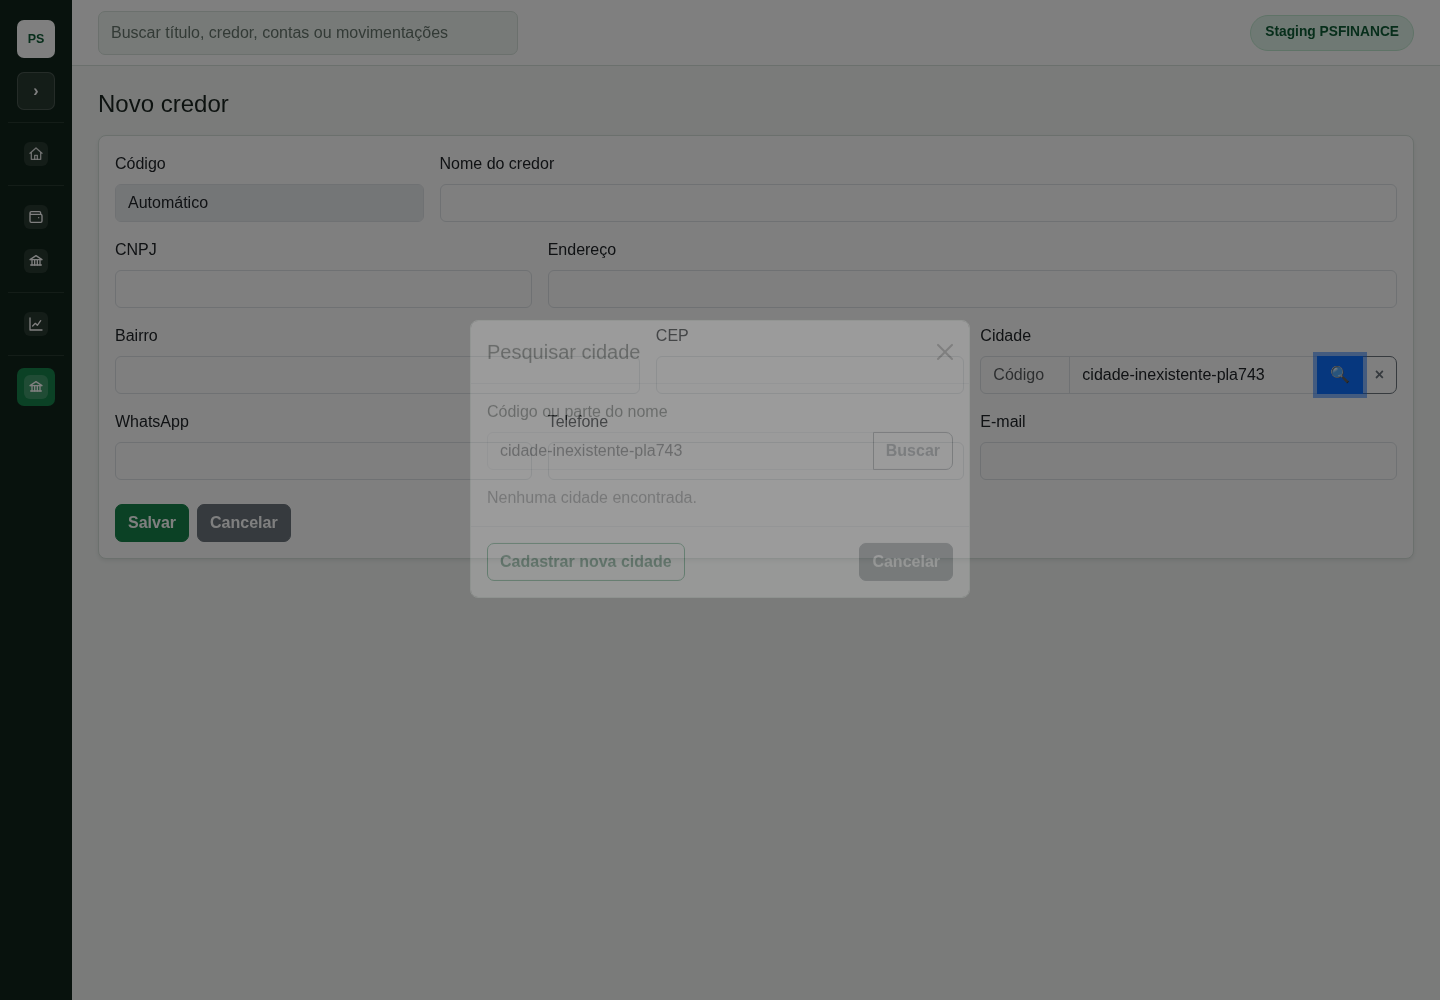
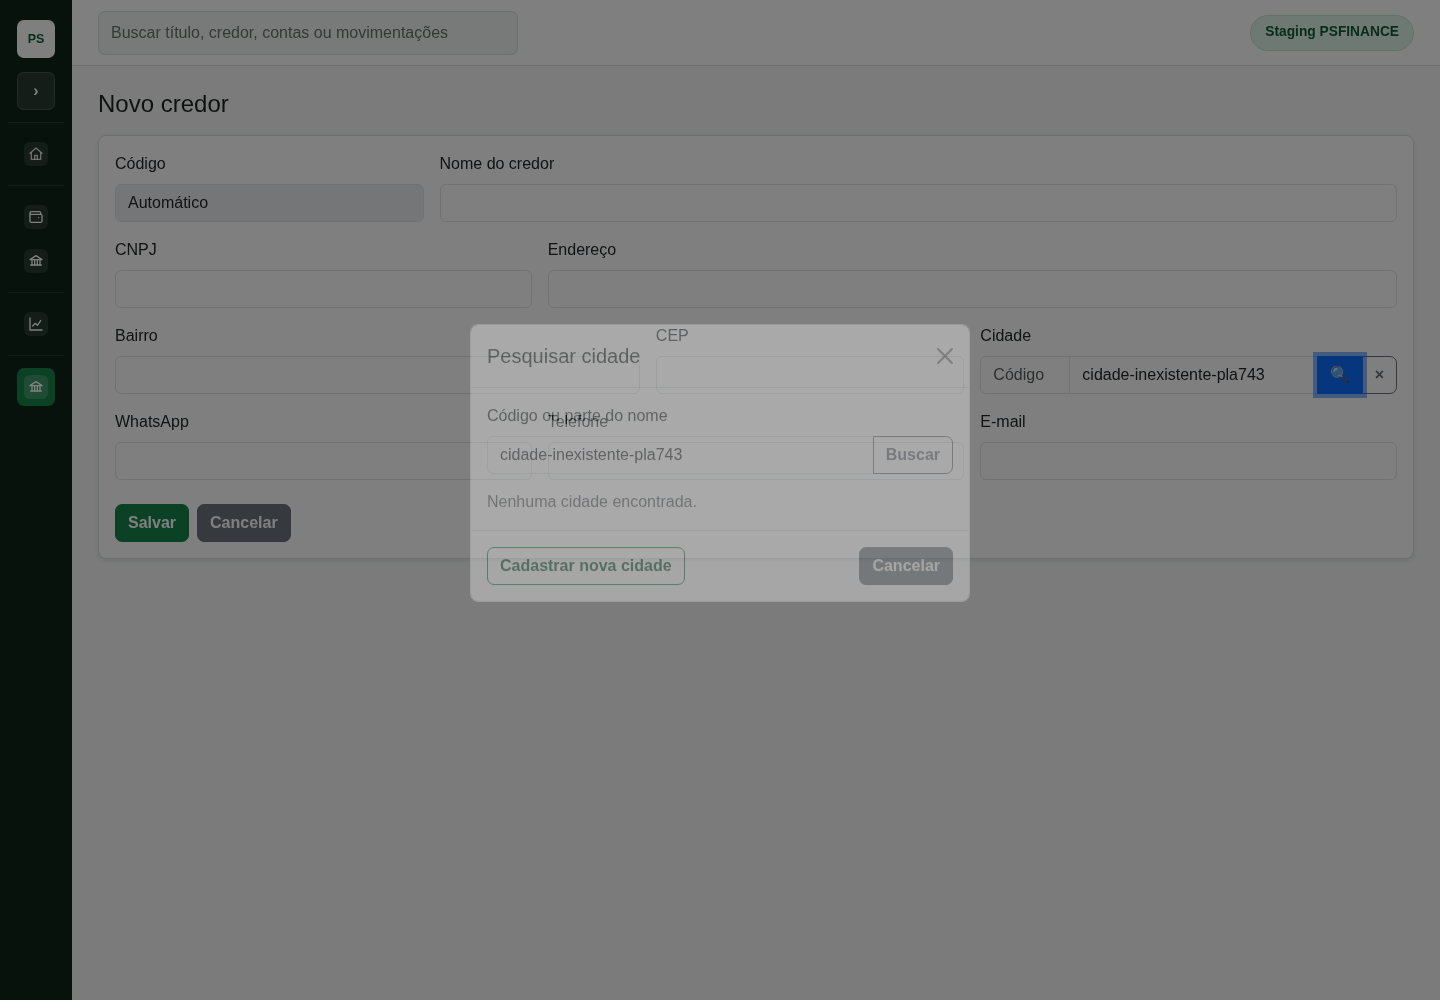
fix(PLA-743): ignorar retorno obsoleto da busca de cidade

diff --git a/templates/credor_form.html b/templates/credor_form.html
@@ -37,9 +37,9 @@
 <script>
 (()=>{
   const formulario=document.querySelector('form'),modal=document.querySelector('#modal_busca_cidade'),codigo=document.querySelector('#cidade_codigo'),nome=document.querySelector('#cidade_nome'),id=document.querySelector('#id_cidade'),busca=document.querySelector('#busca_cidade'),lista=document.querySelector('#resultado_busca_cidade'),msg=document.querySelector('#mensagem_busca_cidade');
-  let timer,consultaEmCurso=false,ultimoNomeSelecionado=nome.value;
+  let timer,ultimoNomeSelecionado=nome.value,revisao=0;
   const instanciaModal=()=>bootstrap.Modal.getOrCreateInstance(modal);
-  const limpar=(manterNome=false)=>{id.value='';codigo.value='';if(!manterNome)nome.value='';ultimoNomeSelecionado='';nome.setCustomValidity('');};
+  const limpar=(manterNome=false)=>{revisao++;id.value='';codigo.value='';if(!manterNome)nome.value='';ultimoNomeSelecionado='';nome.setCustomValidity('');};
   const escolher=c=>{codigo.value=c.id;nome.value=c.nome;id.value=c.id;ultimoNomeSelecionado=c.nome;nome.setCustomValidity('');instanciaModal().hide();};
   async function pesquisar(termo){
     const r=await fetch({{ url_for('financeiro.buscar_cidades')|tojson }}+'?q='+encodeURIComponent(termo.trim()));
@@ -57,27 +57,26 @@
   async function resolver(termo,campo){
     termo=termo.trim();
     if(!termo){limpar();return;}
-    if(consultaEmCurso)return;
-    consultaEmCurso=true;
+    const revisaoConsulta=revisao;
     try{
       const itens=await pesquisar(termo);
+      if(revisaoConsulta!==revisao)return;
       const exato=campo==='codigo'?itens.find(c=>String(c.id)===termo):itens.find(c=>c.nome.localeCompare(termo,undefined,{sensitivity:'base'})===0);
       if(exato||itens.length===1){escolher(exato||itens[0]);return;}
       id.value='';
       if(campo==='codigo')nome.value='';else codigo.value='';
       busca.value=termo;renderizar(itens);instanciaModal().show();
     }catch(e){nome.setCustomValidity(e.message);nome.reportValidity();}
-    finally{consultaEmCurso=false;}
   }
   modal.addEventListener('shown.bs.modal',()=>{if(!busca.value)busca.value=codigo.value||nome.value;carregar();busca.focus();});
   busca.addEventListener('input',()=>{clearTimeout(timer);timer=setTimeout(carregar,250);});
   document.querySelector('#atualizar_cidades').onclick=carregar;
   document.querySelector('#abrir_busca_cidade').addEventListener('click',()=>{busca.value=codigo.value||nome.value;});
   document.querySelector('#limpar_cidade').onclick=()=>{limpar();codigo.focus();};
-  codigo.addEventListener('input',()=>{id.value='';nome.value='';ultimoNomeSelecionado='';});
+  codigo.addEventListener('input',()=>{revisao++;id.value='';nome.value='';ultimoNomeSelecionado='';});
   codigo.addEventListener('change',()=>resolver(codigo.value,'codigo'));
   codigo.addEventListener('keydown',e=>{if(e.key==='Tab')resolver(codigo.value,'codigo');});
-  nome.addEventListener('input',()=>{if(nome.value!==ultimoNomeSelecionado){id.value='';codigo.value='';}});
+  nome.addEventListener('input',()=>{if(nome.value!==ultimoNomeSelecionado){revisao++;id.value='';codigo.value='';}});
   nome.addEventListener('change',()=>resolver(nome.value,'nome'));
   nome.addEventListener('keydown',e=>{if(e.key==='Tab')resolver(nome.value,'nome');});
   formulario.addEventListener('submit',e=>{if(nome.value.trim()&&!id.value){e.preventDefault();nome.setCustomValidity('Selecione uma cidade válida ou limpe o campo.');nome.reportValidity();resolver(nome.value,'nome');}});

diff --git a/scripts/pla743_capture_cidade_editavel.py b/scripts/pla743_capture_cidade_editavel.py
@@ -17,12 +17,18 @@ def validar(page, viewport_name):
 
     page.locator("#cidade_codigo").fill(str(cidade["id"]))
     page.locator("#cidade_codigo").press("Tab")
+    page.locator("#limpar_cidade").click()
+    page.wait_for_timeout(500)
+    assert page.locator("#id_cidade").input_value() == ""
+
+    page.locator("#cidade_codigo").fill(str(cidade["id"]))
+    page.locator("#cidade_codigo").press("Tab")
     page.wait_for_function("value => document.querySelector('#id_cidade').value === String(value)", arg=cidade["id"])
     assert page.locator("#cidade_nome").input_value() == cidade["nome"]
 
     page.locator("#cidade_nome").fill(cidade["nome"])
     page.locator("#cidade_nome").press("Tab")
-    page.wait_for_function("value => document.querySelector('#cidade_nome').value === value", arg=cidade["nome"])
+    page.wait_for_function("value => document.querySelector('#id_cidade').value === String(value)", arg=cidade["id"])
     assert page.locator("#cidade_codigo").input_value() == str(cidade["id"])
 
     page.locator("#limpar_cidade").click()

diff --git a/tests/test_pla743_credor_cidade.py b/tests/test_pla743_credor_cidade.py
@@ -35,6 +35,7 @@ class CredorCidadeTest(unittest.TestCase):
         self.assertIn('id="limpar_cidade"', html)
         self.assertIn("resolver(codigo.value,'codigo')", html)
         self.assertIn("resolver(nome.value,'nome')", html)
+        self.assertIn("revisaoConsulta!==revisao", html)
         self.assertIn("Selecione uma cidade válida ou limpe o campo.", html)
 
     def test_credor_persiste_novos_campos_e_cidade(self):
